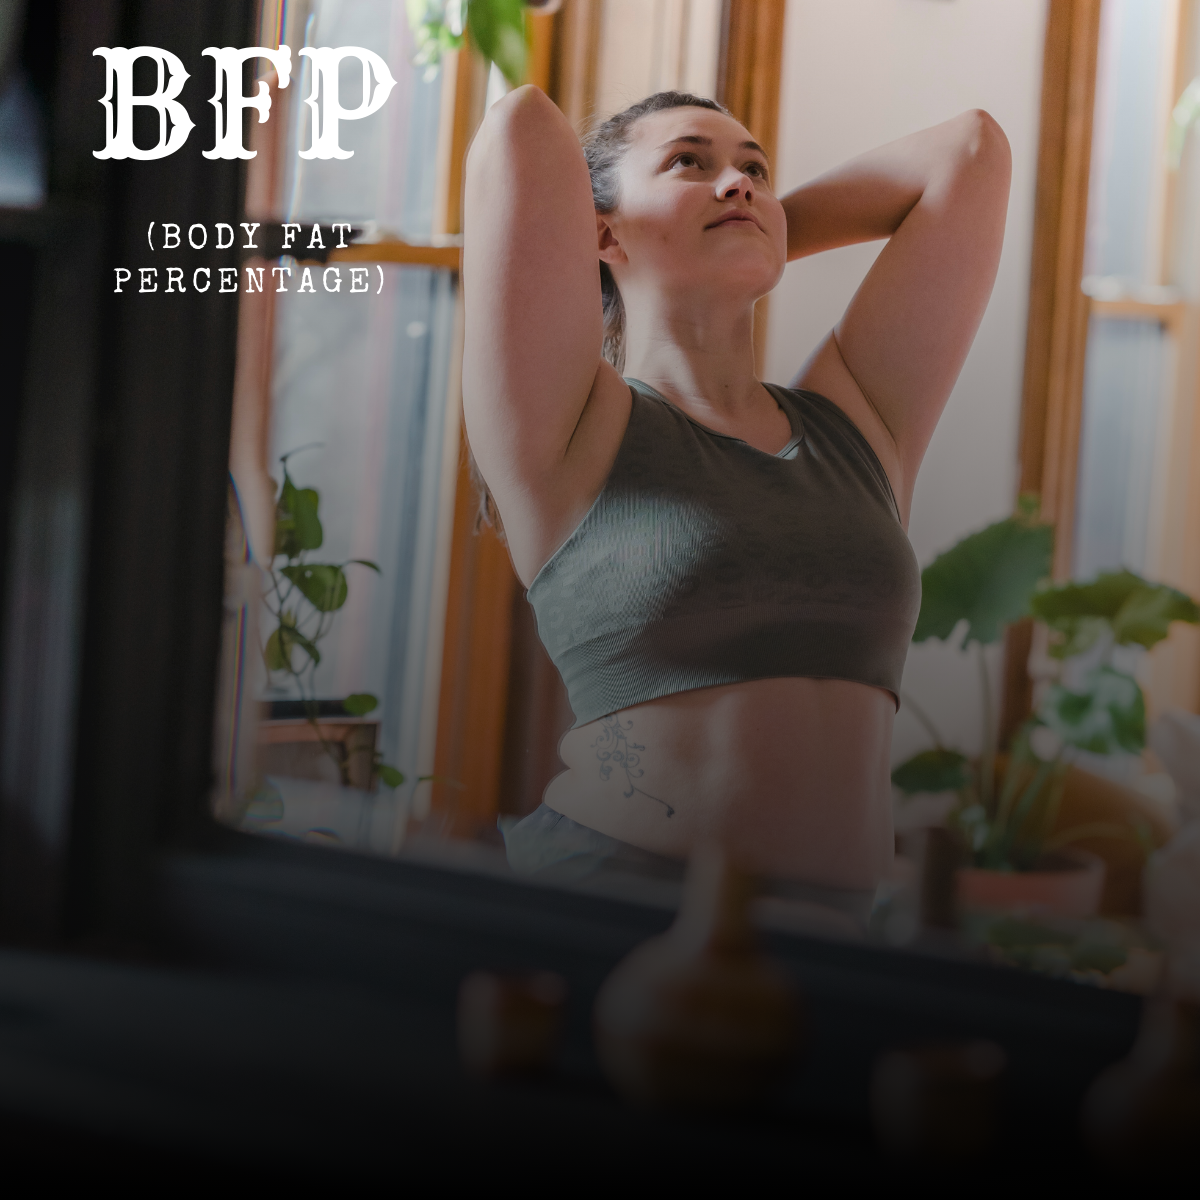
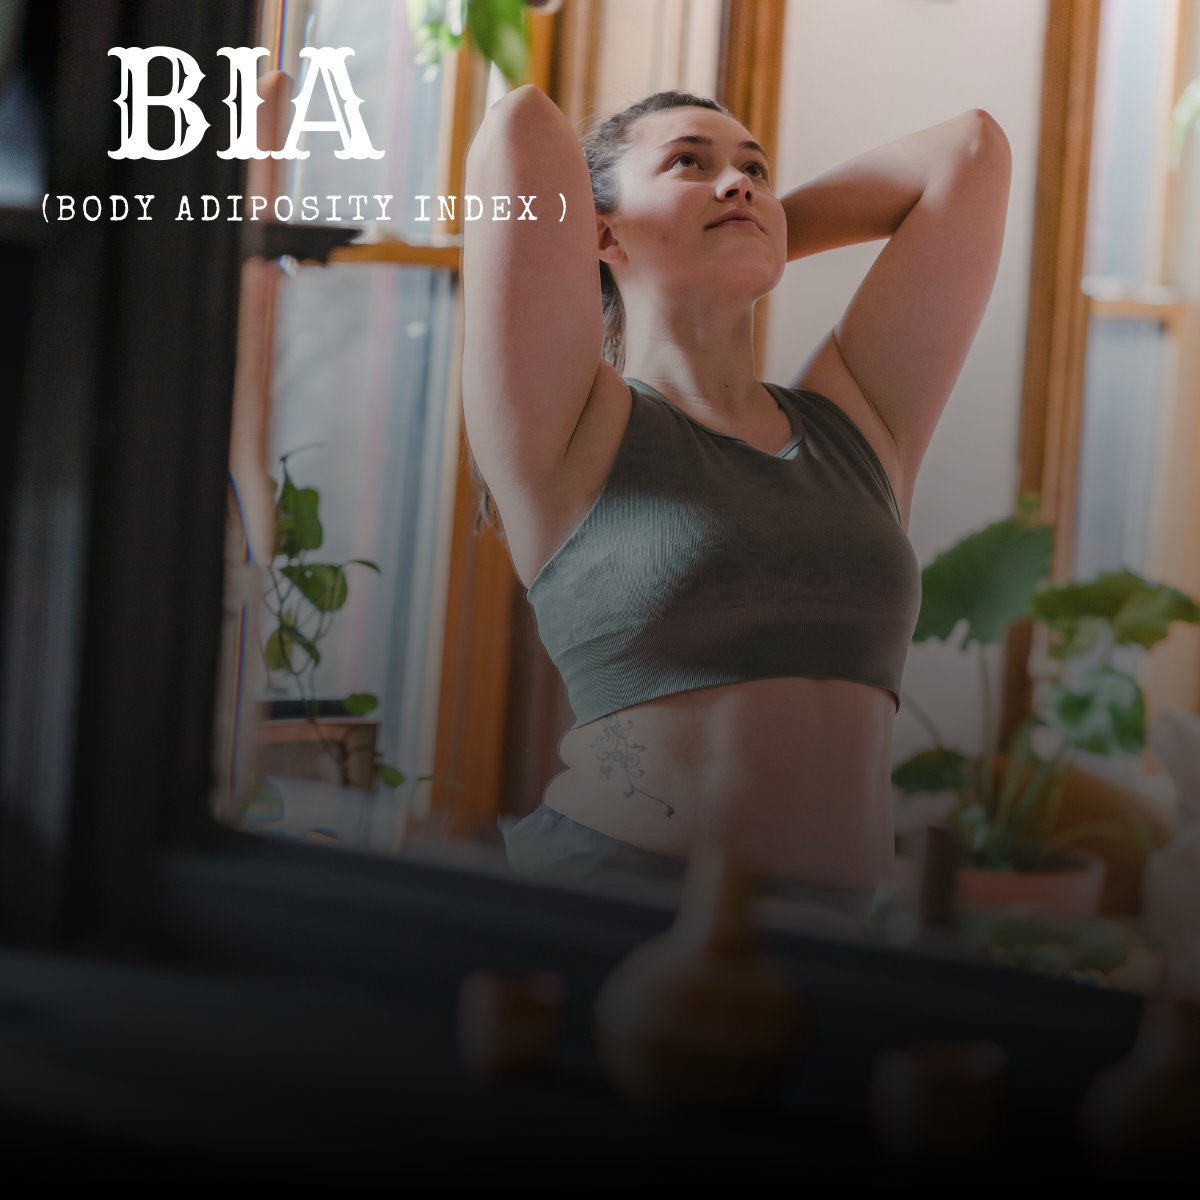
.

Changed region(s): [[0.0308, 0.0308, 0.4625, 0.2467]]

diff --git a/index.html b/index.html
@@ -87,8 +87,8 @@
                                 <span><button class="btn" data-bs-toggle="modal" data-bs-target="#modalBvi">Measure</button></span>
                             </div>
                             <div class="method-cards container-fluid-sm card frcr-6">
-                                <div class="what-method container-fluid-sm">BFP stands for Body Fat Percentage measures fat in body weight.</div>
-                                <span><button class="btn" data-bs-toggle="modal" data-bs-target="#modalBfp">Measure</button></span>
+                                <div class="what-method container-fluid-sm">BAI (Body Adiposity Index), which estimates body fat percentage.</div>
+                                <span><button class="btn" data-bs-toggle="modal" data-bs-target="#modalBai">Measure</button></span>
                             </div>
                         </div>
                     </div>
@@ -383,8 +383,65 @@
                     </div>
                 </div>
 
-                <div class="modal fade" id="modalBfp">
-                    
+                <div class="modal fade" id="modalBai">
+                    <div class="modal-dialog modal-dialog-centered">
+                        <div class="modal-content" id="modal-content">
+                            <div class="modal-heading">
+                                <h2 class="modal-title">BAI</h2>
+                                <span> ( Body Adiposity Index)</span>
+                            </div>
+                            <div class="modal-header">
+                                <button class="btn-close bg-white" id="modal-closeBtn" data-bs-dismiss="modal" type="button"></button>
+                            </div>
+            
+                            <div class="modal-body">
+
+                                <div class="accordion" id="accordion">
+                                    <div class="card" id="forMen">
+                                        <div class="card-header"><a href="#instructions" class="btn text-white ms-1 instructions"
+                                                data-bs-toggle="collapse" id="instructions-btn">Instructions</a></div>
+                                        <div class="collapse" id="instructions" data-bs-parent="#accordion">
+                                            <div class="card-body">
+                                                <h4>1. Measure Hip Circumference:</h4>
+                                                <p>Measure the circumference of the hips at the widest part, typically around the buttocks.</p>
+                                                <hr>
+                                                <h4>2. Measure Height:</h4>
+                                                <p>Stand against a flat surface.
+                                                    Remove shoes, ensure heels, back, and head against the wall.
+                                                    Use ruler or tape to measure height floor to top of head.</p>
+                                            </div>
+                                        </div>
+                                    </div>
+                                </div>
+
+                                <form>
+                                    <div class="form-floating mb-3 mt-3 hipDiv">
+                                        <input type="number" class="form-control form-control-lg" id="hip" placeholder="Enter your Hip Measures" name="hip">
+                                        <label for="hip">Enter your Hip Measures(cm)</label>
+                                    </div>
+                                    <div class="form-floating mt-3 mb-3 heightDiv">
+                                        <input type="number" class="form-control form-control-lg" id="height" placeholder="Enter your Height Measures" name="height">
+                                        <label for="height" >Enter your Height Measures(cm)</label>
+                                    </div>
+                                    <div class="genderDiv form-check">
+                                        <input type="radio" class="form-check-input" id="isMen" name="gender" value="men" checked>
+                                        <label for="isMen" class="form-check-lable">Men?</label>
+                                    </div>
+                                    <div class="genderDiv form-check">
+                                        <input type="radio" class="form-check-input" id="isWomen" name="gender" value="women">
+                                        <label for="isWomen" class="form-check-lable">Women?</label>
+                                    </div>
+                                </form>
+
+                                <h4 id="result" class="mt-3"></h4>
+                                <p id="result-advice"></p>
+                            </div>
+            
+                            <div class="modal-footer">
+                                <button class="btn" id="bia-submit">Check BIA!</button>
+                            </div>
+                        </div>
+                    </div>
                 </div>
             </div>
 

diff --git a/script.js b/script.js
@@ -428,21 +428,39 @@ document.querySelector("#whtr-submit").addEventListener('click', () => {
 })
 
 
-// BFP calculator
+// BAi calculator
 
+
+document.querySelector("#bia-submit").addEventListener('click', () => {
+    const hipValue = Number(document.querySelector("#modalBai #hip").value);
+    const heightValue = Number(document.querySelector("#modalBai #height").value)/100;
+    const isWomen = document.querySelector("#modalBai #isWomen");
+    const isMen = document.querySelector("#modalBai #isMen");
+    const resultAdvice = document.querySelector('#modalBai #result-advice');
+
+    const getBAI = (hipValue / Math.pow(heightValue, 1.5)) - 18;
+
+    document.querySelector('#modalBai #result').innerHTML = getBAI;
+})
 
 
 document.querySelectorAll("#modal-closeBtn").forEach((element) => {
     element.addEventListener('click', () => {
         document.querySelector('#modalBmi #height').value = "";
         document.querySelector('#modalBmi #weight').value = "";
-
+        
         document.querySelector('#modalBmr #weightMen').value = '';
         document.querySelector('#modalBmr #heightMen').value = '';
         document.querySelector('#modalBmr #ageMen').value = '';
         document.querySelector('#modalBmr #weightWomen').value = '';
         document.querySelector('#modalBmr #heightWomen').value = '';
         document.querySelector('#modalBmr #ageWomen').value = '';
+
+        document.querySelector("#modalBmr #d3ExerciseM").checked = false;
+        document.querySelector("#modalBmr #dExerciseM").checked = false;
+        document.querySelector("#modalBmr #d3ExerciseW").checked = false;
+        document.querySelector("#modalBmr #dExerciseW").checked = false;
+        document.querySelector("#modalBmr #NOExerciseW").checked = false;
 
         document.getElementById("waist").value = "";
         document.getElementById("hip").value = "";

diff --git a/style.css b/style.css
@@ -270,16 +270,16 @@ li {
 .modal{
     backdrop-filter: blur(10px);
 }
-#bmi-submit,#bmr-submit,#whr-submit,#whtr-submit,#bfp-submit{
+#bmi-submit,#bmr-submit,#whr-submit,#whtr-submit,#bia-submit{
     background-color: #001871;
     color: white;
     transition: all 1s ease;
 }
-#bmi-submit:hover,#bmr-submit:hover,#whr-submit:hover,#whtr-submit:hover,#bfp-submit:hover{
+#bmi-submit:hover,#bmr-submit:hover,#whr-submit:hover,#whtr-submit:hover,#bia-submit:hover{
     border: 1px solid rgb(74, 91, 175);
     background-color: transparent;
 }
-#bmi-submit:active,#bmr-submit:active,#whr-submit:active,#whtr-submit:active,#bfp-submit:active{
+#bmi-submit:active,#bmr-submit:active,#whr-submit:active,#whtr-submit:active,#bia-submit:active{
     background-color: #000000e0;
     color: rgb(86, 86, 86);
 }
